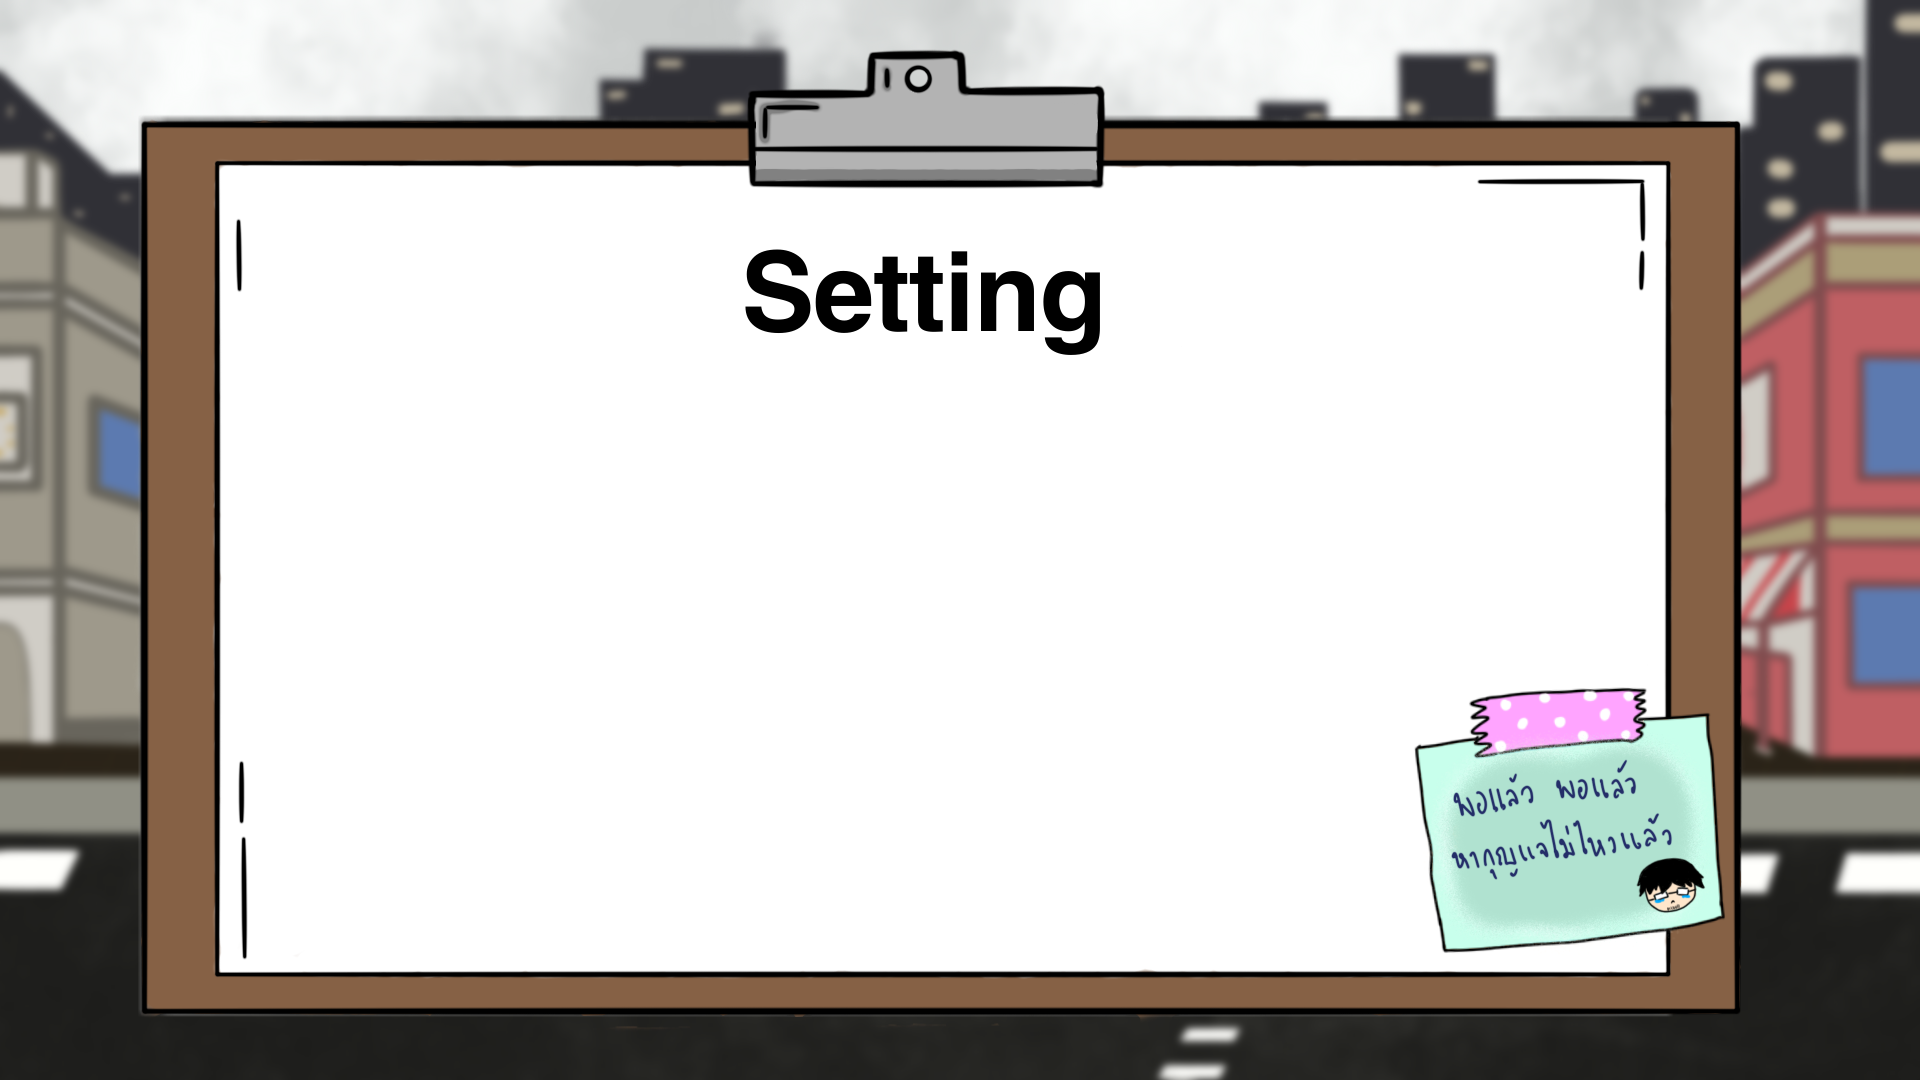
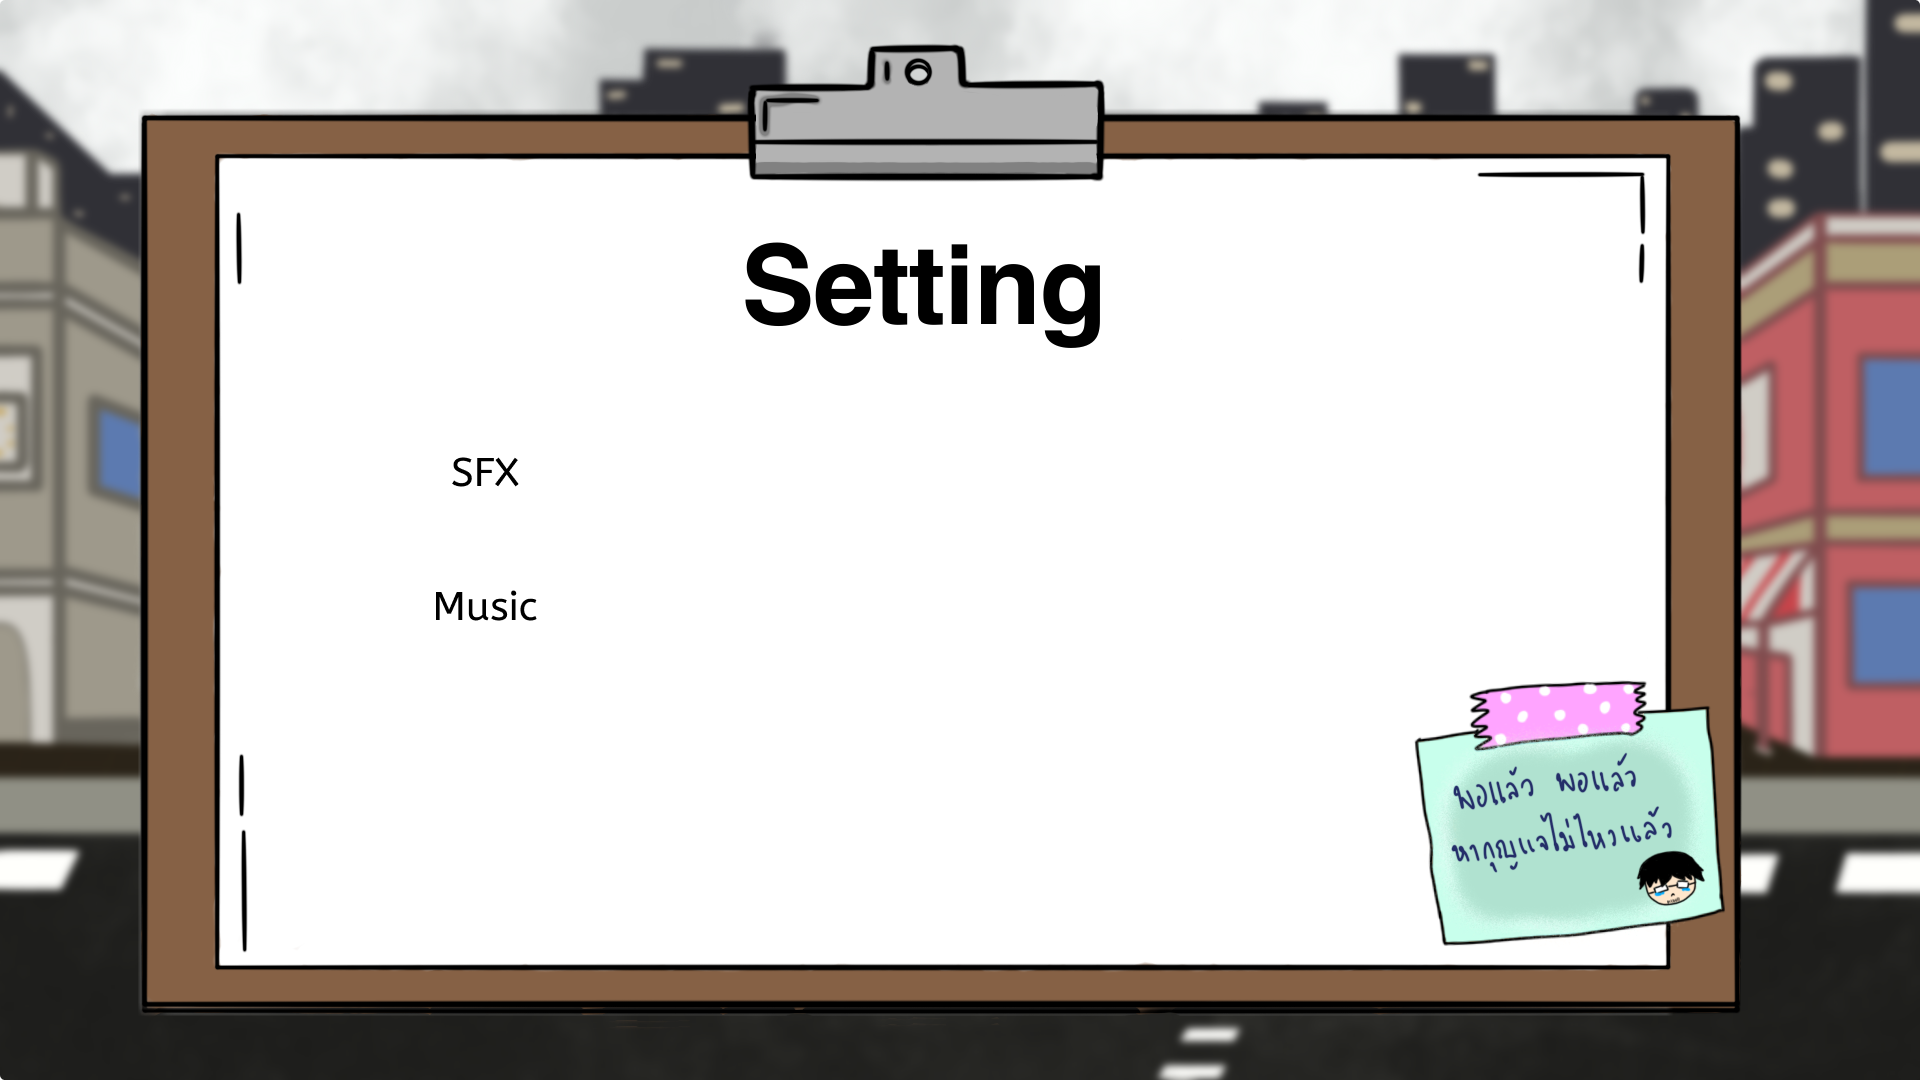
uppdate_Settingpage

diff --git a/core/src/main/java/core/windows/SettingScreen.java b/core/src/main/java/core/windows/SettingScreen.java
@@ -41,7 +41,6 @@ public class SettingScreen implements Screen {
     private Skin skin;
     private Music music;
     private Sound clickSound;
-    private Label sfxLabel, musicLabel;
     private Slider sfxSlider, musicSlider;
     private float sfxVolume = 1f;
 
@@ -114,8 +113,6 @@ public class SettingScreen implements Screen {
         Gdx.input.setInputProcessor(stage); // Let the stage handle input events (click events)
         initSkin(); 
 
-        sfxLabel = new Label("SFX", skin);
-        musicLabel = new Label("Music", skin);
 
         sfxSlider = new Slider(0f, 1f, 0.01f, false, skin);
         musicSlider = new Slider(0f, 1f, 0.01f, false, skin);
@@ -178,19 +175,15 @@ public class SettingScreen implements Screen {
         stage.addActor(ExitButton);
 
         //add sfxLabel position
-        sfxLabel.setPosition(450, 605);
-        sfxSlider.setPosition(650, 600);
+        sfxSlider.setPosition(650, 580);
         sfxSlider.setSize(750, 60);
 
         //add musicLabel position
-        musicLabel.setPosition(450, 505);
-        musicSlider.setPosition(650, 500);
+        musicSlider.setPosition(650, 450);
         musicSlider.setSize(750, 60);
 
         //add label and slider to stage
-        stage.addActor(sfxLabel);
         stage.addActor(sfxSlider);
-        stage.addActor(musicLabel);
         stage.addActor(musicSlider);
         // Add listeners for interaction
         SaveButton.addListener(new ClickListener() {
